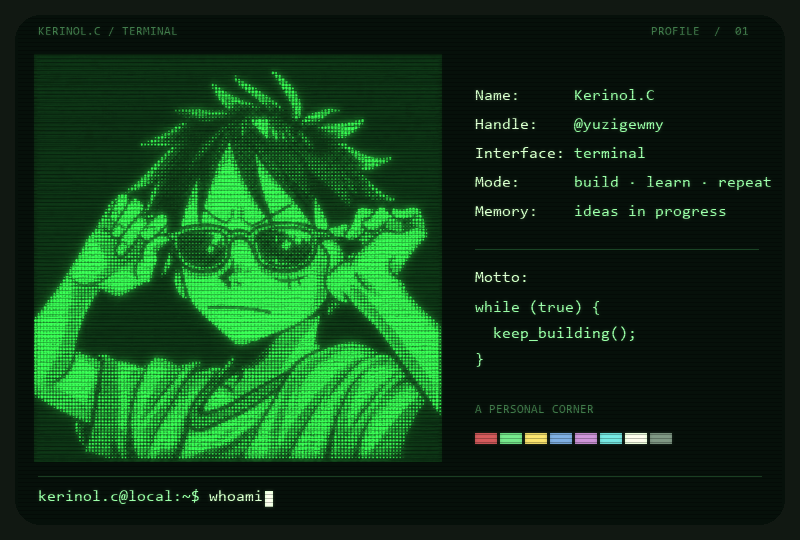
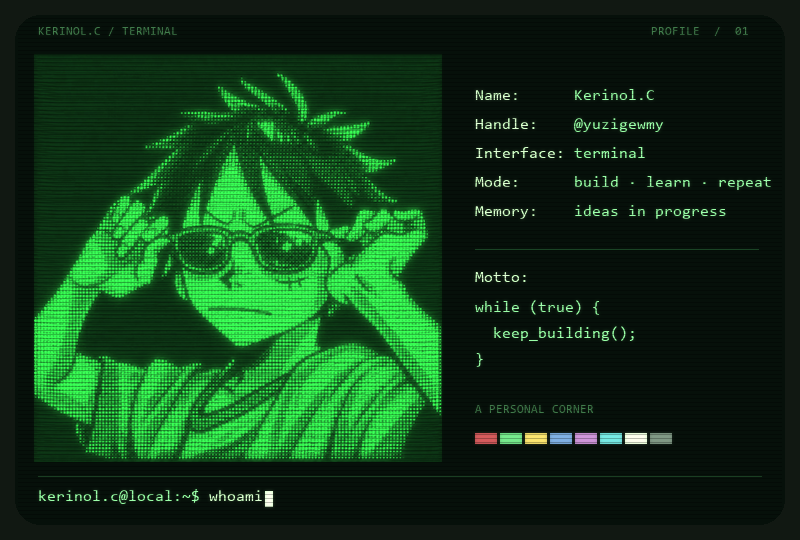
feat: animate portrait hair, breathing and sunglasses glint

Changed region(s): [[0.0312, 0.1185, 0.5625, 0.8593]]

diff --git a/dist/index.html b/dist/index.html
@@ -26,7 +26,7 @@
       <div class="terminal" id="terminal">
         <div class="terminal-chrome"><div class="window-dots" aria-hidden="true"><span></span><span></span><span></span></div><span class="terminal-title">kerinol@home: ~ / neofetch</span><span class="terminal-tag">UTF-8</span></div>
         <div class="terminal-screen">
-          <img id="profile-art" class="profile-art" src="assets/neofetch.png" data-animated="assets/neofetch.gif" data-static="assets/neofetch.png" width="800" height="540" alt="Kerinol.C 的绿色 CRT 字符头像：尖刺头发、太阳镜，双手调整眼镜。账号 @yuzigewmy，座右铭 keep_building。" fetchpriority="high">
+          <img id="profile-art" class="profile-art" src="assets/neofetch.png" data-animated="assets/neofetch.gif?v=hair-motion-1" data-static="assets/neofetch.png" width="800" height="540" alt="Kerinol.C 的绿色 CRT 字符头像：尖刺头发轻轻飘动、太阳镜反光，人物随呼吸起伏。账号 @yuzigewmy。" fetchpriority="high">
           <div id="terminal-output" class="terminal-output" role="log" aria-live="polite" aria-label="终端输出"></div>
           <form id="command-form" class="command-line"><label for="command-input">guest<span class="prompt-at">@</span>kerinol<span class="prompt-path">:~$</span></label><input id="command-input" name="command" placeholder="输入 help，或点下方命令" maxlength="100" autocomplete="off" autocapitalize="off" spellcheck="false" aria-describedby="terminal-help"><button type="submit" class="enter-button" aria-label="执行命令">↵</button></form>
         </div>
@@ -37,7 +37,7 @@
     <section class="about-section wrap" id="about" aria-labelledby="about-title">
       <div class="section-index">01 <span>/ ABOUT</span></div>
       <div class="about-copy"><p class="eyebrow">$ cat about.txt</p><h2 id="about-title">保持好奇，<br>继续构建<span class="accent">。</span></h2><p>这里是 Kerinol.C 的个人空间。记录探索，也把有趣的想法慢慢变成可以运行的东西。</p><p class="quiet">一些代码，一点像素，还有下一次尝试。</p><a class="text-link" href="https://github.com/yuzigewmy" target="_blank" rel="noopener noreferrer">在 GitHub 找到我 <span aria-hidden="true">↗</span></a></div>
-      <figure class="portrait-card"><img src="assets/portrait-crt.png" width="640" height="640" loading="lazy" alt="由提供的动漫头像制作的绿色荧光点阵肖像"><figcaption><span>PORTRAIT_01</span><span>GREEN PHOSPHOR</span></figcaption></figure>
+      <figure class="portrait-card"><img id="portrait-art" src="assets/portrait-crt.png" data-animated="assets/portrait-crt.gif?v=hair-motion-1" data-static="assets/portrait-crt.png" width="640" height="640" loading="lazy" alt="绿色荧光点阵动态肖像，头发轻轻飘动，人物随呼吸起伏"><figcaption><span>PORTRAIT_01</span><span>GREEN PHOSPHOR</span></figcaption></figure>
     </section>
     <section class="projects-section wrap" id="projects" aria-labelledby="projects-title">
       <div class="section-head"><div><div class="section-index">02 <span>/ REPOSITORIES</span></div><h2 id="projects-title">在构建，也在探索。</h2></div><a class="text-link" href="https://github.com/yuzigewmy?tab=repositories" target="_blank" rel="noopener noreferrer">全部公开仓库 <span aria-hidden="true">↗</span></a></div>

diff --git a/dist/app.js b/dist/app.js
@@ -4,7 +4,7 @@
   const input = document.getElementById('command-input');
   const output = document.getElementById('terminal-output');
   const terminal = document.getElementById('terminal');
-  const art = document.getElementById('profile-art');
+  const artworks = document.querySelectorAll('[data-animated]');
   const motionButton = document.getElementById('motion-toggle');
   const effectsButton = document.getElementById('effects-toggle');
   const reducedMotion = window.matchMedia('(prefers-reduced-motion: reduce)');
@@ -51,7 +51,7 @@
     effectsButton.textContent = '光效：' + (effectsOn ? '开' : '关');
   });
   function setMotion(enabled) {
-    art.src = enabled ? art.dataset.animated : art.dataset.static;
+    artworks.forEach(art => { art.src = enabled ? art.dataset.animated : art.dataset.static; });
     motionButton.setAttribute('aria-pressed', String(enabled));
     motionButton.textContent = '动画：' + (enabled ? '开' : '关');
   }

diff --git a/tools/generate_profile.py b/tools/generate_profile.py
@@ -12,6 +12,7 @@ from __future__ import annotations
 
 import argparse
 import json
+import math
 from pathlib import Path
 
 from PIL import Image, ImageChops, ImageDraw, ImageFilter, ImageFont, ImageOps
@@ -72,6 +73,46 @@ def prepared_portrait(path: Path) -> Image.Image:
     green = tone.point(lambda value: 13 + value * 225 // 255)
     blue = tone.point(lambda value: 8 + value * 70 // 255)
     return Image.merge("RGB", (red, green, blue))
+
+
+def animated_portrait(portrait: Image.Image, phase: float) -> Image.Image:
+    """Keep the image edges fixed while hair tips sway and the figure breathes."""
+    width, height = portrait.size
+    progress = phase / math.tau
+    glint = (progress - 0.28) / 0.16
+    image = portrait
+    if 0 < glint < 1:
+        lenses = Image.new("L", portrait.size)
+        draw = ImageDraw.Draw(lenses)
+        draw.polygon(((143, 181), (154, 178), (181, 180), (191, 185),
+                      (196, 194), (190, 205), (175, 210), (151, 207), (145, 198)), fill=255)
+        draw.polygon(((224, 181), (237, 178), (258, 181), (269, 187),
+                      (274, 199), (267, 210), (250, 213), (230, 208), (224, 198)), fill=255)
+        shine = Image.new("L", portrait.size)
+        center = 127 + 166 * glint
+        ImageDraw.Draw(shine).polygon(((center - 7, 169), (center + 7, 169),
+            (center - 5, 222), (center - 19, 222)), fill=round(40 * math.sin(math.pi * glint)))
+        shine = ImageChops.multiply(shine.filter(ImageFilter.GaussianBlur(2)), lenses)
+        image = ImageChops.add(portrait, Image.merge("RGB", (
+            shine.point(lambda value: value // 2), shine, shine.point(lambda value: value // 3))))
+
+    def source_point(x: int, y: int) -> tuple[float, float]:
+        edge = max(0, min(1, x / 20, (width - x) / 20, y / 20, (height - y) / 20))
+        hair = max(0, min(1, (185 - y) / 125))
+        wind = 5.5 * math.sin(phase * 2) + 1.2 * math.sin(phase * 4)
+        dx = edge * (0.6 * math.sin(phase * 3) + hair * wind)
+        dy = edge * (1.6 * math.sin(phase * 3) + hair * 1.2 * math.sin(phase * 2))
+        return x - dx, y - dy
+
+    mesh = []
+    for y in range(0, height, 24):
+        for x in range(0, width, 24):
+            right, bottom = min(x + 24, width), min(y + 24, height)
+            corners = (source_point(x, y), source_point(x, bottom),
+                       source_point(right, bottom), source_point(right, y))
+            mesh.append(((x, y, right, bottom), tuple(value for point in corners for value in point)))
+    return image.transform(portrait.size, Image.Transform.MESH, mesh,
+                           resample=Image.Resampling.BICUBIC)
 
 
 def base_screen(portrait: Image.Image, fonts: dict[str, ImageFont.FreeTypeFont]) -> Image.Image:
@@ -150,11 +191,23 @@ def generate(args: argparse.Namespace) -> dict[str, object]:
     shade = shade.filter(ImageFilter.GaussianBlur(90))
     vignette = Image.merge("RGB", (shade, shade, shade))
 
-    states = frames_for_commands()
+    command_states = frames_for_commands()
+    total_ms = sum(duration // 10 * 10 for _, _, duration in command_states)
+    states = []
+    command_index, command_end = 0, command_states[0][2] // 10 * 10
+    for elapsed in range(0, total_ms, 100):
+        while elapsed >= command_end and command_index < len(command_states) - 1:
+            command_index += 1
+            command_end += command_states[command_index][2] // 10 * 10
+        command, cursor_on, _ = command_states[command_index]
+        states.append((command, cursor_on, min(100, total_ms - elapsed)))
     frames = []
     durations = []
+    elapsed_ms = 0
     for command, cursor_on, duration in states:
         frame = base.copy()
+        phase = math.tau * elapsed_ms / total_ms
+        frame.paste(animated_portrait(portrait, phase), (34, 54))
         draw = ImageDraw.Draw(frame)
         prompt = "kerinol.c@local:~$ "
         draw.text((38, 489), prompt, font=fonts["normal"], fill=GREEN)
@@ -165,6 +218,9 @@ def generate(args: argparse.Namespace) -> dict[str, object]:
             draw.rectangle((cursor_x, 491, cursor_x + 7, 506), fill=BRIGHT)
         frames.append(crt_pass(frame, vignette, mask))
         durations.append(duration)
+        elapsed_ms += duration
+    frames.append(frames[0].copy())
+    durations.append(100)
 
     # A global palette and GIF frame deltas make the static portrait cheap.
     palette_source = Image.new("RGB", (WIDTH, HEIGHT + 48), BACKGROUND)
@@ -174,11 +230,14 @@ def generate(args: argparse.Namespace) -> dict[str, object]:
             (102, 142, 183), (166, 120, 175), (95, 188, 183), (204, 223, 191),
             (103, 123, 107))):
         palette_draw.rectangle((index * 100, HEIGHT, index * 100 + 99, HEIGHT + 47), fill=color)
-    palette = palette_source.quantize(colors=192, method=Image.Quantize.MEDIANCUT)
+    palette = palette_source.quantize(colors=48, method=Image.Quantize.MEDIANCUT)
     indexed = [frame.quantize(palette=palette, dither=Image.Dither.NONE) for frame in frames]
     gif_path = assets / "neofetch.gif"
     indexed[0].save(gif_path, save_all=True, append_images=indexed[1:],
                     duration=durations, loop=0, optimize=True, disposal=1)
+    portrait_frames = [frame.crop((34, 54, 442, 462)) for frame in indexed]
+    portrait_frames[0].save(assets / "portrait-crt.gif", save_all=True,
+        append_images=portrait_frames[1:], duration=durations, loop=0, optimize=True, disposal=1)
     full_command_index = next(i for i, state in enumerate(states) if state[0] == "whoami")
     frames[full_command_index].save(assets / "neofetch.png")
 
@@ -191,7 +250,7 @@ def generate(args: argparse.Namespace) -> dict[str, object]:
         decoded.load()
         rgb = decoded.convert("RGB")
         assert rgb.size == (WIDTH, HEIGHT), (index, rgb.size)
-        static = rgb.crop((0, 0, WIDTH, 478))
+        static = rgb.crop((467, 54, 770, 462))
         if comparison is None:
             comparison = static
         else:
@@ -200,7 +259,10 @@ def generate(args: argparse.Namespace) -> dict[str, object]:
         decoded_frames.append(rgb.copy())
     assert decoded.info.get("loop", 0) == 0
     assert ImageChops.difference(decoded_frames[0], decoded_frames[-1]).getbbox() is None
-    assert gif_path.stat().st_size < 2_000_000
+    assert gif_path.stat().st_size < 6_000_000
+    portrait_unique = len({frame.crop((34, 54, 442, 462)).tobytes() for frame in decoded_frames})
+    hair_unique = len({frame.crop((134, 74, 424, 224)).tobytes() for frame in decoded_frames})
+    assert portrait_unique > 20 and hair_unique > 20
     assert ImageChops.difference(source, Image.open(tools / "avatar.png").convert("RGB")).getbbox() is None
 
     sampled_indices = (0, full_command_index, len(decoded_frames) // 3,
@@ -221,7 +283,11 @@ def generate(args: argparse.Namespace) -> dict[str, object]:
         "total_duration_ms": total_duration,
         "bytes": gif_path.stat().st_size,
         "all_frames_decoded": True,
-        "static_profile_unchanged": True,
+        "profile_text_unchanged": True,
+        "portrait_animated": True,
+        "hair_animated": True,
+        "portrait_unique_frames": portrait_unique,
+        "hair_unique_frames": hair_unique,
         "loop_seam_equal": True,
         "font": face,
         "portrait": str(args.portrait) if args.portrait else "deterministic stippled source",

diff --git a/docs/PROJECT.md b/docs/PROJECT.md
@@ -6,6 +6,7 @@
 
 - `dist/`：可直接部署的静态网站，原生 HTML、CSS、JavaScript，无前端依赖。
 - `assets/neofetch.gif`：GitHub README 使用的循环动画。
+- `assets/portrait-crt.gif`：独立动态头像，包含发梢飘动、轻微呼吸与墨镜反光。
 - `assets/neofetch.png`：静态展示与减少动态效果模式。
 - `tools/avatar.png`：用户原始头像，仅转换为 PNG。
 - `tools/portrait-crt.png`：头像风格迁移后的绿色点阵素材。

diff --git a/profile/README.md b/profile/README.md
@@ -1,6 +1,6 @@
 <p align="center">
   <a href="https://kerinol-c.spunkyhero2.chatgpt.site/">
-    <img src="https://raw.githubusercontent.com/yuzigewmy/Kerinol.C/main/assets/neofetch.gif" width="800" alt="Kerinol.C 的绿色 CRT 字符头像，@yuzigewmy" />
+    <img src="https://raw.githubusercontent.com/yuzigewmy/Kerinol.C/main/assets/neofetch.gif?v=hair-motion-1" width="800" alt="Kerinol.C 的绿色 CRT 动态头像，头发随风飘动，@yuzigewmy" />
   </a>
 </p>
 

diff --git a/README.md b/README.md
@@ -1,6 +1,6 @@
 <p align="center">
   <a href="https://kerinol-c.spunkyhero2.chatgpt.site/">
-    <img src="assets/neofetch.gif" width="800" alt="Kerinol.C 的绿色 CRT 字符头像与个人终端" />
+    <img src="assets/neofetch.gif?v=hair-motion-1" width="800" alt="Kerinol.C 的绿色 CRT 动态头像与个人终端，头发轻轻飘动" />
   </a>
 </p>
 
